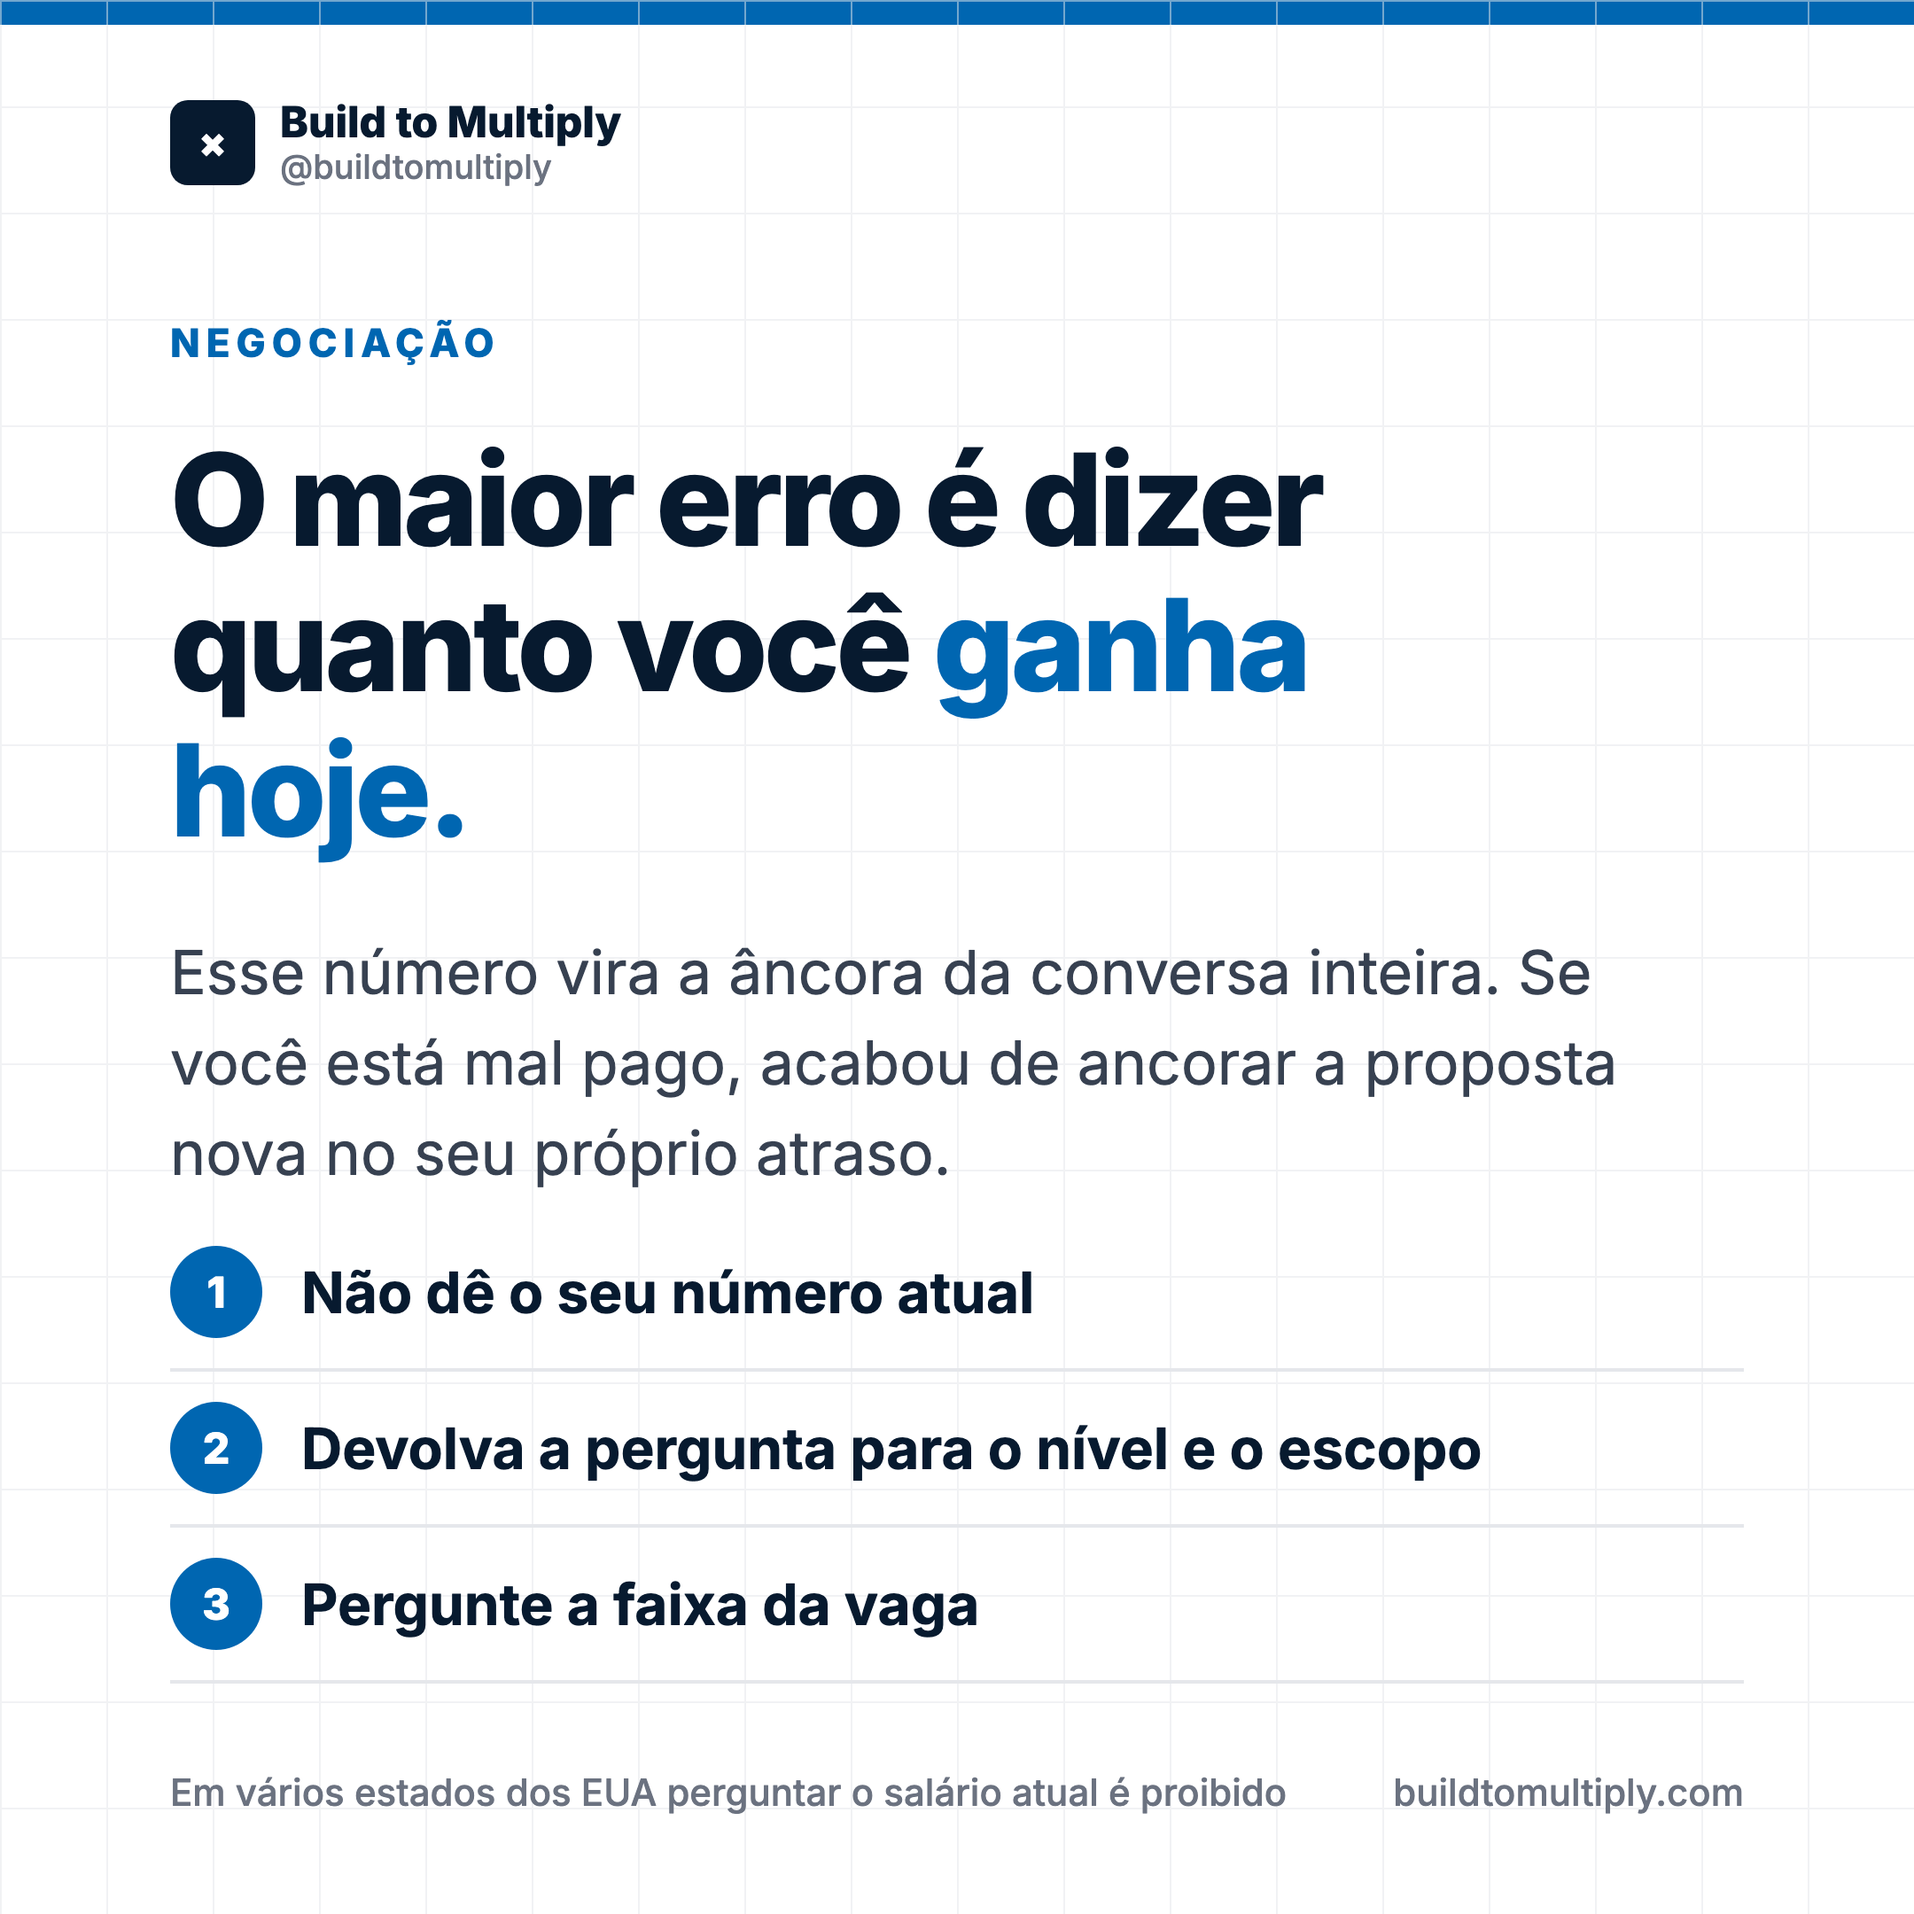
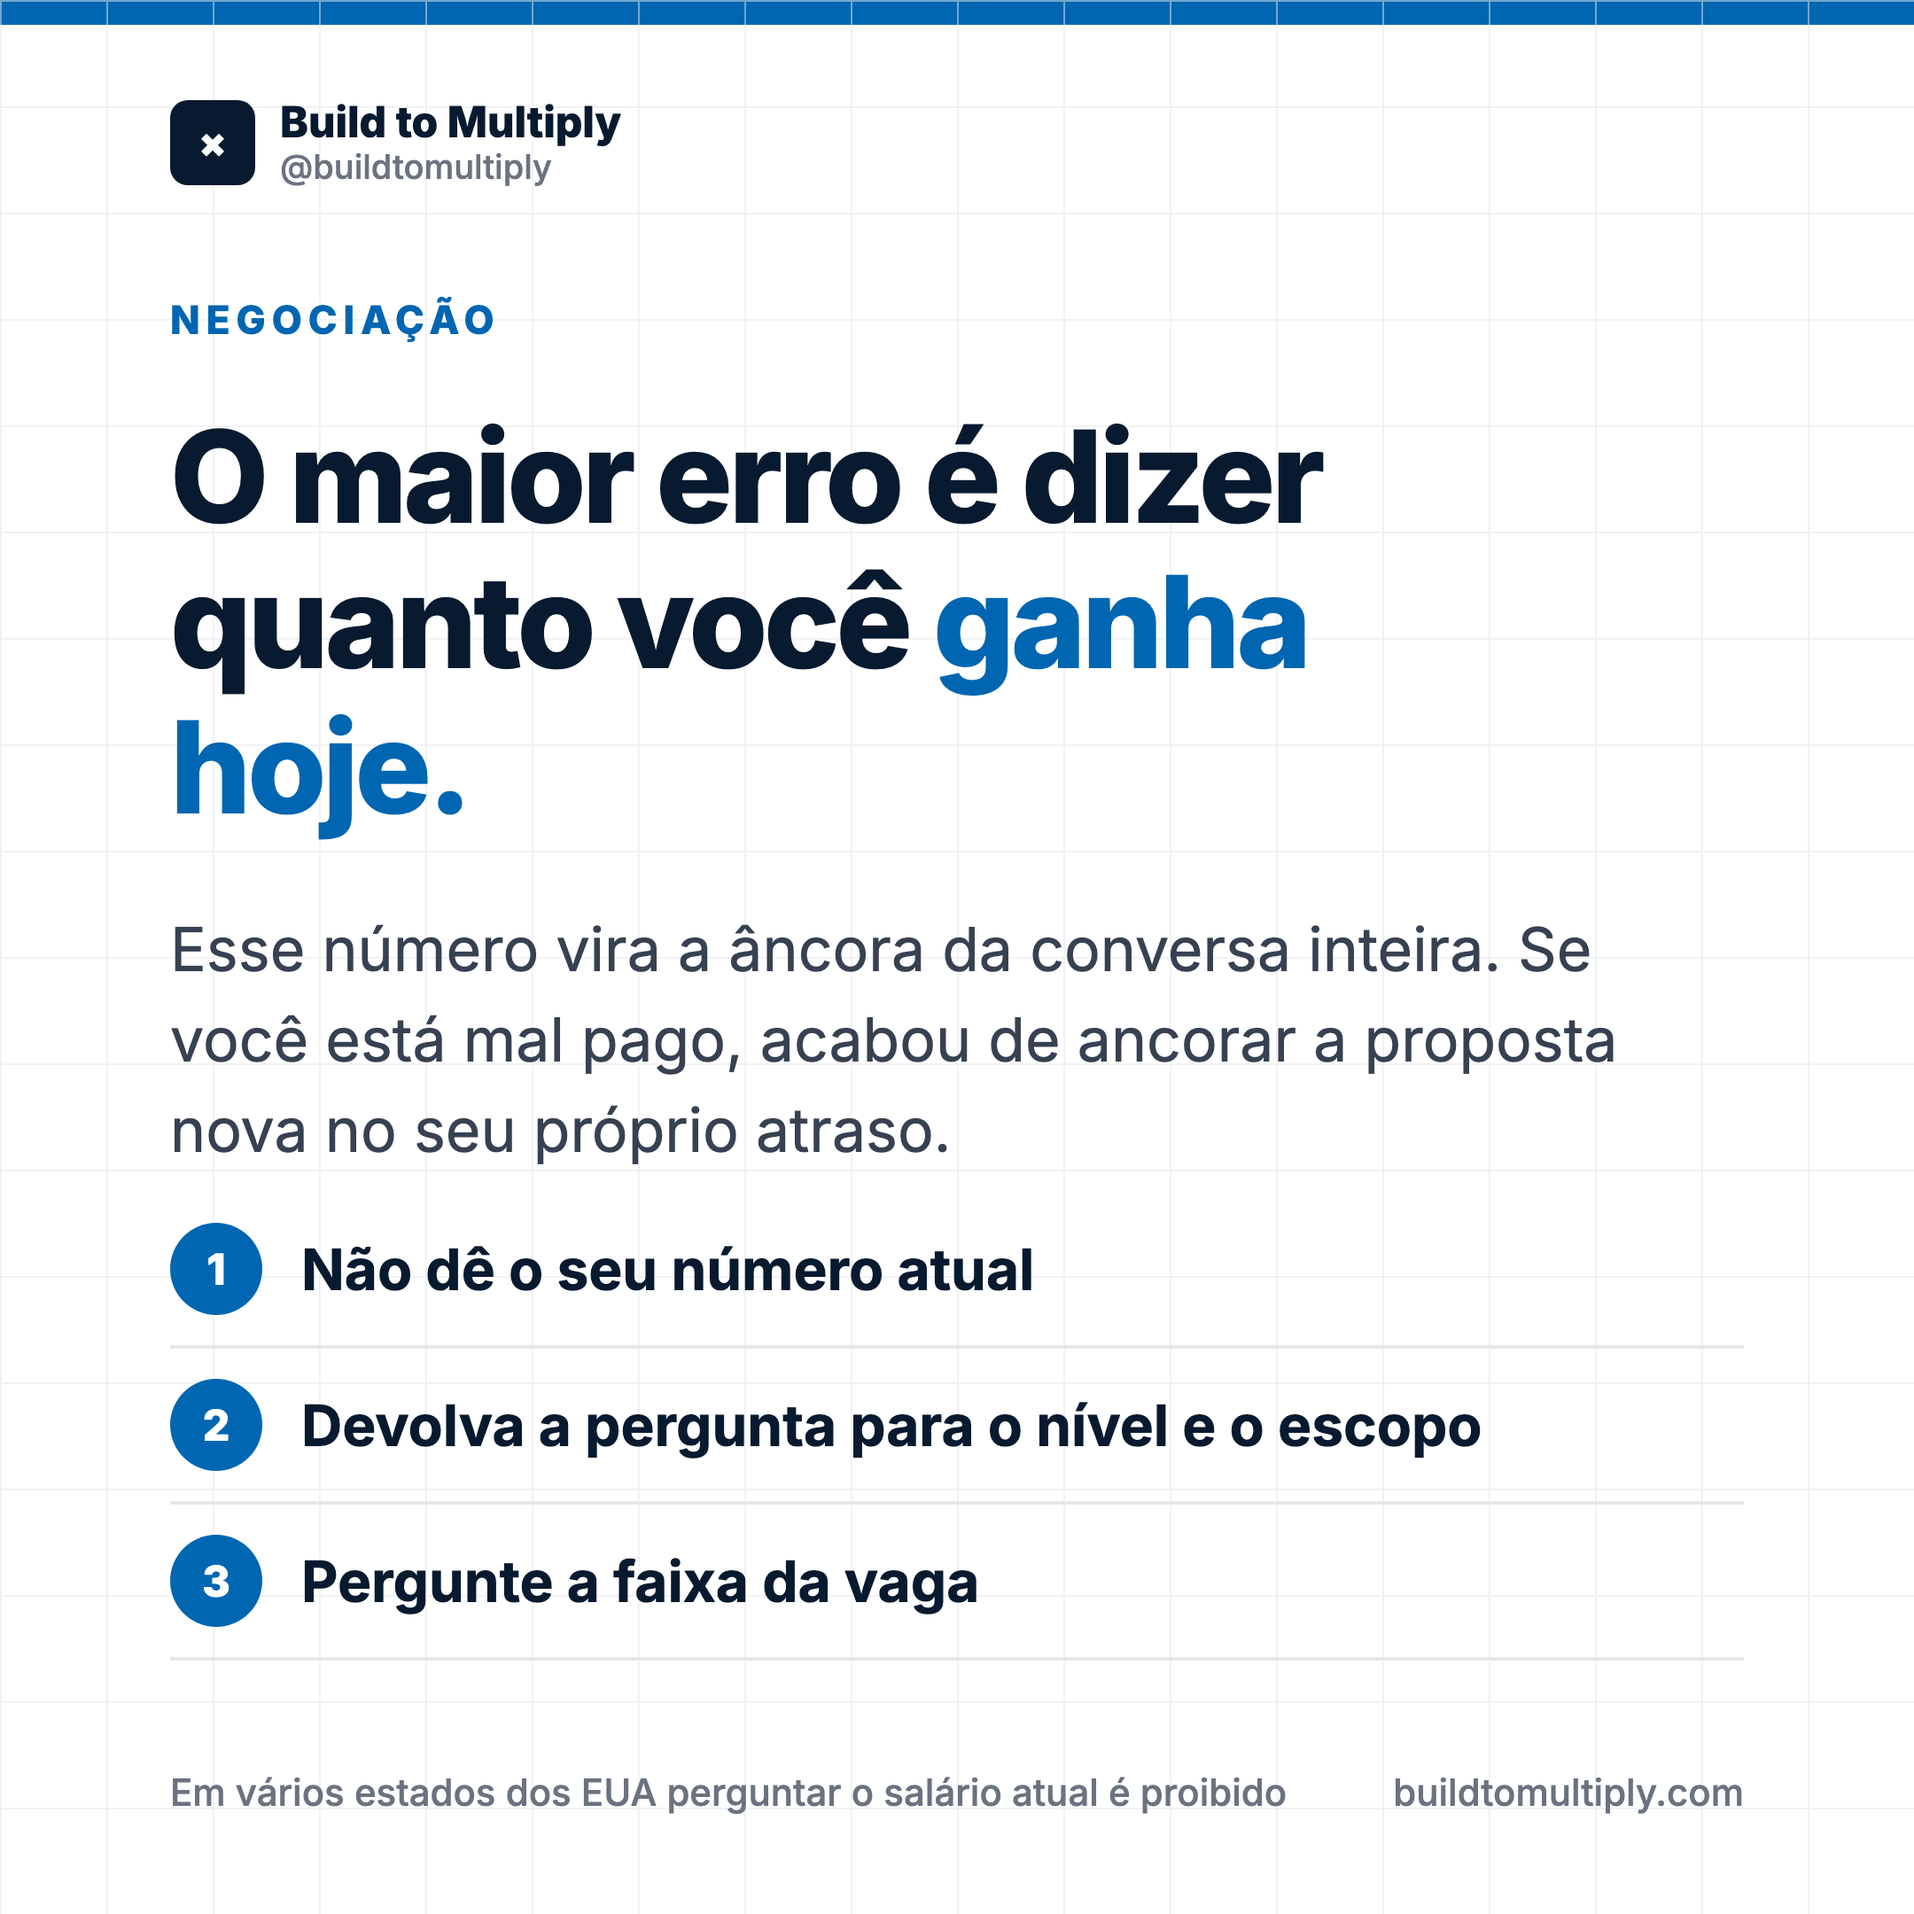
Cards regerados com ajuste automatico e QA obrigatorio (corrige sobreposicao no post 2)

Changed region(s): [[0.0931, 0.4653, 0.8995, 0.8685], [0.0931, 0.2171, 0.7134, 0.4653], [0.0931, 0.1551, 0.2792, 0.1861]]

diff --git a/articles/02-compare-job-offers-total-compensation.html b/articles/02-compare-job-offers-total-compensation.html
@@ -15,7 +15,7 @@
 <link rel="preconnect" href="https://fonts.googleapis.com">
 <link rel="preconnect" href="https://fonts.gstatic.com" crossorigin>
 <link href="https://fonts.googleapis.com/css2?family=Inter:wght@400;500;600;700;800&display=swap" rel="stylesheet">
-<link rel="stylesheet" href="../site.css?v=1789944563">
+<link rel="stylesheet" href="../site.css?v=1789945577">
 </head>
 <body>
 <a class="skip-link" href="#main">Skip to content</a>
@@ -153,5 +153,5 @@
   </div>
   <div class="footer-bottom"><p>&copy; 2026 Build to Multiply.</p><p>Educational content. Build to Multiply does not provide personalized financial, investment, tax or legal advice. The calculators show estimates based on what you type and are not predictions or guarantees.</p></div>
 </div></footer>
-<script src="../site.js?v=1789944563"></script>
+<script src="../site.js?v=1789945577"></script>
 </body></html>

diff --git a/articles/03-negotiate-base-or-bonus.html b/articles/03-negotiate-base-or-bonus.html
@@ -15,7 +15,7 @@
 <link rel="preconnect" href="https://fonts.googleapis.com">
 <link rel="preconnect" href="https://fonts.gstatic.com" crossorigin>
 <link href="https://fonts.googleapis.com/css2?family=Inter:wght@400;500;600;700;800&display=swap" rel="stylesheet">
-<link rel="stylesheet" href="../site.css?v=1789944563">
+<link rel="stylesheet" href="../site.css?v=1789945577">
 </head>
 <body>
 <a class="skip-link" href="#main">Skip to content</a>
@@ -139,5 +139,5 @@
   </div>
   <div class="footer-bottom"><p>&copy; 2026 Build to Multiply.</p><p>Educational content. Build to Multiply does not provide personalized financial, investment, tax or legal advice. The calculators show estimates based on what you type and are not predictions or guarantees.</p></div>
 </div></footer>
-<script src="../site.js?v=1789944563"></script>
+<script src="../site.js?v=1789945577"></script>
 </body></html>

diff --git a/articles/04-total-rewards-statement.html b/articles/04-total-rewards-statement.html
@@ -15,7 +15,7 @@
 <link rel="preconnect" href="https://fonts.googleapis.com">
 <link rel="preconnect" href="https://fonts.gstatic.com" crossorigin>
 <link href="https://fonts.googleapis.com/css2?family=Inter:wght@400;500;600;700;800&display=swap" rel="stylesheet">
-<link rel="stylesheet" href="../site.css?v=1789944563">
+<link rel="stylesheet" href="../site.css?v=1789945577">
 </head>
 <body>
 <a class="skip-link" href="#main">Skip to content</a>
@@ -161,5 +161,5 @@
   </div>
   <div class="footer-bottom"><p>&copy; 2026 Build to Multiply.</p><p>Educational content. Build to Multiply does not provide personalized financial, investment, tax or legal advice. The calculators show estimates based on what you type and are not predictions or guarantees.</p></div>
 </div></footer>
-<script src="../site.js?v=1789944563"></script>
+<script src="../site.js?v=1789945577"></script>
 </body></html>

diff --git a/articles/05-savings-rate-explained.html b/articles/05-savings-rate-explained.html
@@ -15,7 +15,7 @@
 <link rel="preconnect" href="https://fonts.googleapis.com">
 <link rel="preconnect" href="https://fonts.gstatic.com" crossorigin>
 <link href="https://fonts.googleapis.com/css2?family=Inter:wght@400;500;600;700;800&display=swap" rel="stylesheet">
-<link rel="stylesheet" href="../site.css?v=1789944563">
+<link rel="stylesheet" href="../site.css?v=1789945577">
 </head>
 <body>
 <a class="skip-link" href="#main">Skip to content</a>
@@ -107,5 +107,5 @@
   </div>
   <div class="footer-bottom"><p>&copy; 2026 Build to Multiply.</p><p>Educational content. Build to Multiply does not provide personalized financial, investment, tax or legal advice. The calculators show estimates based on what you type and are not predictions or guarantees.</p></div>
 </div></footer>
-<script src="../site.js?v=1789944563"></script>
+<script src="../site.js?v=1789945577"></script>
 </body></html>

diff --git a/articles/01-how-companies-decide-your-salary.html b/articles/01-how-companies-decide-your-salary.html
@@ -15,7 +15,7 @@
 <link rel="preconnect" href="https://fonts.googleapis.com">
 <link rel="preconnect" href="https://fonts.gstatic.com" crossorigin>
 <link href="https://fonts.googleapis.com/css2?family=Inter:wght@400;500;600;700;800&display=swap" rel="stylesheet">
-<link rel="stylesheet" href="../site.css?v=1789944563">
+<link rel="stylesheet" href="../site.css?v=1789945577">
 </head>
 <body>
 <a class="skip-link" href="#main">Skip to content</a>
@@ -94,5 +94,5 @@
   </div>
   <div class="footer-bottom"><p>&copy; 2026 Build to Multiply.</p><p>Educational content. Build to Multiply does not provide personalized financial, investment, tax or legal advice. The calculators show estimates based on what you type and are not predictions or guarantees.</p></div>
 </div></footer>
-<script src="../site.js?v=1789944563"></script>
+<script src="../site.js?v=1789945577"></script>
 </body></html>

diff --git a/articles/09-equity-compensation-101.html b/articles/09-equity-compensation-101.html
@@ -15,7 +15,7 @@
 <link rel="preconnect" href="https://fonts.googleapis.com">
 <link rel="preconnect" href="https://fonts.gstatic.com" crossorigin>
 <link href="https://fonts.googleapis.com/css2?family=Inter:wght@400;500;600;700;800&display=swap" rel="stylesheet">
-<link rel="stylesheet" href="../site.css?v=1789944563">
+<link rel="stylesheet" href="../site.css?v=1789945577">
 </head>
 <body>
 <a class="skip-link" href="#main">Skip to content</a>
@@ -91,5 +91,5 @@
   </div>
   <div class="footer-bottom"><p>&copy; 2026 Build to Multiply.</p><p>Educational content. Build to Multiply does not provide personalized financial, investment, tax or legal advice. The calculators show estimates based on what you type and are not predictions or guarantees.</p></div>
 </div></footer>
-<script src="../site.js?v=1789944563"></script>
+<script src="../site.js?v=1789945577"></script>
 </body></html>

diff --git a/community.html b/community.html
@@ -15,7 +15,7 @@
 <link rel="preconnect" href="https://fonts.googleapis.com">
 <link rel="preconnect" href="https://fonts.gstatic.com" crossorigin>
 <link href="https://fonts.googleapis.com/css2?family=Inter:wght@400;500;600;700;800&display=swap" rel="stylesheet">
-<link rel="stylesheet" href="site.css?v=1789944563">
+<link rel="stylesheet" href="site.css?v=1789945577">
 </head>
 <body>
 <a class="skip-link" href="#main">Skip to content</a>
@@ -108,5 +108,5 @@
   </div>
   <div class="footer-bottom"><p>&copy; 2026 Build to Multiply.</p><p>Educational content. Build to Multiply does not provide personalized financial, investment, tax or legal advice. The calculators show estimates based on what you type and are not predictions or guarantees.</p></div>
 </div></footer>
-<script src="site.js?v=1789944563"></script>
+<script src="site.js?v=1789945577"></script>
 </body></html>

diff --git a/xray.html b/xray.html
@@ -15,7 +15,7 @@
 <link rel="preconnect" href="https://fonts.googleapis.com">
 <link rel="preconnect" href="https://fonts.gstatic.com" crossorigin>
 <link href="https://fonts.googleapis.com/css2?family=Inter:wght@400;500;600;700;800&display=swap" rel="stylesheet">
-<link rel="stylesheet" href="site.css?v=1789944563">
+<link rel="stylesheet" href="site.css?v=1789945577">
 </head>
 <body>
 <a class="skip-link" href="#main">Skip to content</a>
@@ -134,5 +134,5 @@
   </div>
   <div class="footer-bottom"><p>&copy; 2026 Build to Multiply.</p><p>Educational content. Build to Multiply does not provide personalized financial, investment, tax or legal advice. The calculators show estimates based on what you type and are not predictions or guarantees.</p></div>
 </div></footer>
-<script src="site.js?v=1789944563"></script>
+<script src="site.js?v=1789945577"></script>
 </body></html>

diff --git a/about.html b/about.html
@@ -15,7 +15,7 @@
 <link rel="preconnect" href="https://fonts.googleapis.com">
 <link rel="preconnect" href="https://fonts.gstatic.com" crossorigin>
 <link href="https://fonts.googleapis.com/css2?family=Inter:wght@400;500;600;700;800&display=swap" rel="stylesheet">
-<link rel="stylesheet" href="site.css?v=1789944563">
+<link rel="stylesheet" href="site.css?v=1789945577">
 </head>
 <body>
 <a class="skip-link" href="#main">Skip to content</a>
@@ -66,5 +66,5 @@
   </div>
   <div class="footer-bottom"><p>&copy; 2026 Build to Multiply.</p><p>Educational content. Build to Multiply does not provide personalized financial, investment, tax or legal advice. The calculators show estimates based on what you type and are not predictions or guarantees.</p></div>
 </div></footer>
-<script src="site.js?v=1789944563"></script>
+<script src="site.js?v=1789945577"></script>
 </body></html>

diff --git a/articles.html b/articles.html
@@ -15,7 +15,7 @@
 <link rel="preconnect" href="https://fonts.googleapis.com">
 <link rel="preconnect" href="https://fonts.gstatic.com" crossorigin>
 <link href="https://fonts.googleapis.com/css2?family=Inter:wght@400;500;600;700;800&display=swap" rel="stylesheet">
-<link rel="stylesheet" href="site.css?v=1789944563">
+<link rel="stylesheet" href="site.css?v=1789945577">
 </head>
 <body>
 <a class="skip-link" href="#main">Skip to content</a>
@@ -51,5 +51,5 @@
   </div>
   <div class="footer-bottom"><p>&copy; 2026 Build to Multiply.</p><p>Educational content. Build to Multiply does not provide personalized financial, investment, tax or legal advice. The calculators show estimates based on what you type and are not predictions or guarantees.</p></div>
 </div></footer>
-<script src="site.js?v=1789944563"></script>
+<script src="site.js?v=1789945577"></script>
 </body></html>

diff --git a/index.html b/index.html
@@ -15,7 +15,7 @@
 <link rel="preconnect" href="https://fonts.googleapis.com">
 <link rel="preconnect" href="https://fonts.gstatic.com" crossorigin>
 <link href="https://fonts.googleapis.com/css2?family=Inter:wght@400;500;600;700;800&display=swap" rel="stylesheet">
-<link rel="stylesheet" href="site.css?v=1789944563">
+<link rel="stylesheet" href="site.css?v=1789945577">
 </head>
 <body>
 <a class="skip-link" href="#main">Skip to content</a>
@@ -67,5 +67,5 @@
   </div>
   <div class="footer-bottom"><p>&copy; 2026 Build to Multiply.</p><p>Educational content. Build to Multiply does not provide personalized financial, investment, tax or legal advice. The calculators show estimates based on what you type and are not predictions or guarantees.</p></div>
 </div></footer>
-<script src="site.js?v=1789944563"></script>
+<script src="site.js?v=1789945577"></script>
 </body></html>

diff --git a/library.html b/library.html
@@ -15,7 +15,7 @@
 <link rel="preconnect" href="https://fonts.googleapis.com">
 <link rel="preconnect" href="https://fonts.gstatic.com" crossorigin>
 <link href="https://fonts.googleapis.com/css2?family=Inter:wght@400;500;600;700;800&display=swap" rel="stylesheet">
-<link rel="stylesheet" href="site.css?v=1789944563">
+<link rel="stylesheet" href="site.css?v=1789945577">
 </head>
 <body>
 <a class="skip-link" href="#main">Skip to content</a>
@@ -52,5 +52,5 @@
   </div>
   <div class="footer-bottom"><p>&copy; 2026 Build to Multiply.</p><p>Educational content. Build to Multiply does not provide personalized financial, investment, tax or legal advice. The calculators show estimates based on what you type and are not predictions or guarantees.</p></div>
 </div></footer>
-<script src="site.js?v=1789944563"></script>
+<script src="site.js?v=1789945577"></script>
 </body></html>
